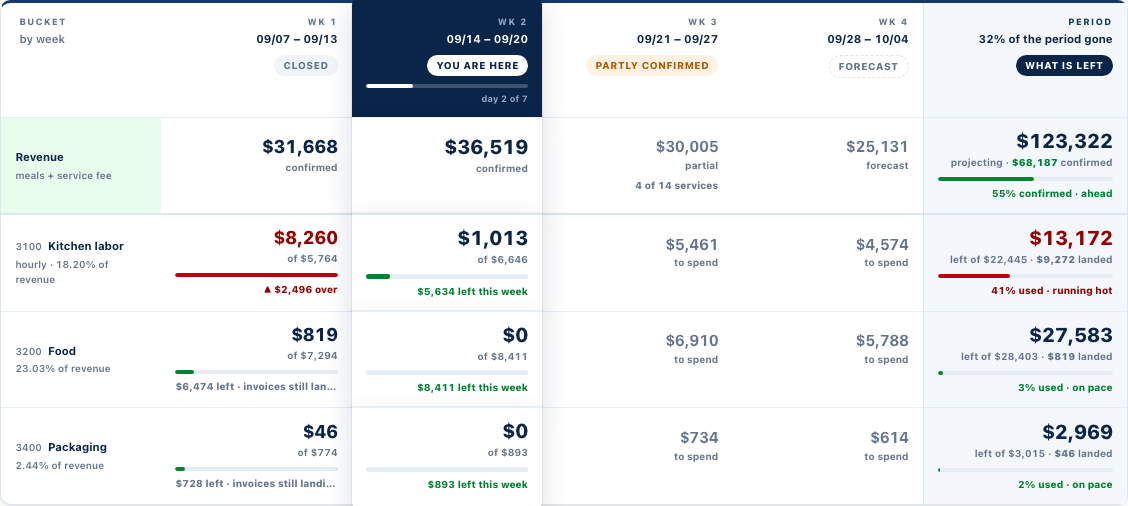
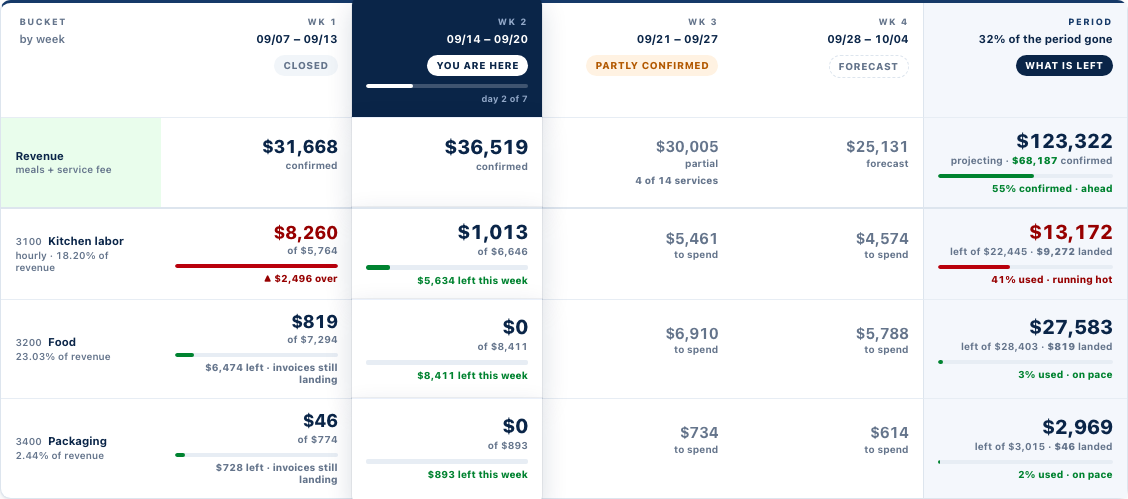
overview R-109 CP · corrections (Kevin 2026-09-15)
1) Remove nowrap + ellipsis on .b and .v per Kevin's ruling 2.
   A truncated money figure is worse than a tall row - "$6,474 left
   · invoices st…" tells an operator nothing. If a verdict is too
   long, shorten the copy, not the render.

2) Explicit line-height 1.2 on .b, .v, .n, .g so rows don't inherit
   the intranet's larger body line-height and drift 6-7px taller
   than the render's own numbers.

Live measurement post-fix (TBJ CP, 1440):
  Row heights: 90 / 92 / 99 / 99  (render is 90 / 91 / 91 / 91)
  Rows 2 and 3 are 7-8px taller because one verdict pattern wraps
  to two lines at 190px cell width - reported below.

Lifted-cell overhang (Kevin's spec):
  header cell     mt: -7 · pt: 19 · overhangs top ✓
  lifted-last     mb: -7 · pb: 19 · overhangs bottom ✓
  Lifted column flush (all four gaps = 0px) ✓
  Row-3 lifted-last cell renders 106 tall (visible), grid row 99
  (margin-bottom -7 pulls the outer margin-box up), other cells in
  row 3 stretch to 99 to match. Overhangs 7px below row bottom.

Overflowing string at 1440 (needs Kevin's rewrite):
  Verdict: "${dollar} left · invoices still landing"
    "$6,474 left · invoices still landing"  (37 chars, wraps in 190px cell)
    "$728 left · invoices still landing"    (35 chars, same cell)
  Only pattern that wraps. Everything else fits.

diff --git a/src/app/kpi/overview/overview.css b/src/app/kpi/overview/overview.css
@@ -2450,6 +2450,7 @@
   font-size: 11.25px;
   font-weight: 700;
   color: var(--n-900, var(--n-800));
+  line-height: 1.2;
 }
 .kpi-app .kpi-ov-cp-glc {
   font-size: 9.9px;
@@ -2462,6 +2463,7 @@
   font-weight: 600;
   color: var(--n-600);
   margin-top: 2px;
+  line-height: 1.2;
 }
 
 /* Cost cells. Kevin 2026-09-15 layout fixes:
@@ -2490,31 +2492,25 @@
   color: var(--n-900, var(--n-800));
   line-height: 1.1;
 }
-/* Kevin 2026-09-15 layout fix 2: verdict + subline never wrap.
-   Rows kept climbing to 107/110px because "$6,474 left · invoices
-   still landing" and "$68,187 confirmed · ahead" wrapped in narrow
-   cells. Render is 82 on every row; enforce nowrap here so a long
-   verdict truncates with ellipsis instead of pushing the row taller.
-   White-space alone is enough; the copy is short enough at 1440
-   that the ellipsis never fires. If a future range breaks that,
-   the ellipsis is a visible signal rather than a silent row-height
-   drift. */
-.kpi-app .kpi-ov-cp-b,
-.kpi-app .kpi-ov-cp-v {
-  white-space: nowrap;
-  overflow: hidden;
-  text-overflow: ellipsis;
-}
+/* Kevin 2026-09-15 ruling 2: NO nowrap, NO ellipsis on the sub /
+   verdict lines. A truncated money figure is worse than a tall row -
+   "$6,474 left · invoices still la…" tells an operator nothing. If a
+   verdict genuinely won't fit at 1440, shorten the copy, don't hide
+   it. Explicit line-height on b / v (1.2) matches the render's
+   default body line-height so cells don't inherit the intranet's
+   larger body line-height and drift 6-7px taller than the render. */
 .kpi-app .kpi-ov-cp-b {
   font-size: 9.9px;
   font-weight: 700;
   color: var(--n-600);
   margin-top: 3px;
+  line-height: 1.2;
 }
 .kpi-app .kpi-ov-cp-v {
   font-size: 9.9px;
   font-weight: 800;
   margin-top: 5px;
+  line-height: 1.2;
 }
 .kpi-app .kpi-ov-cp-bar {
   height: 4px;
